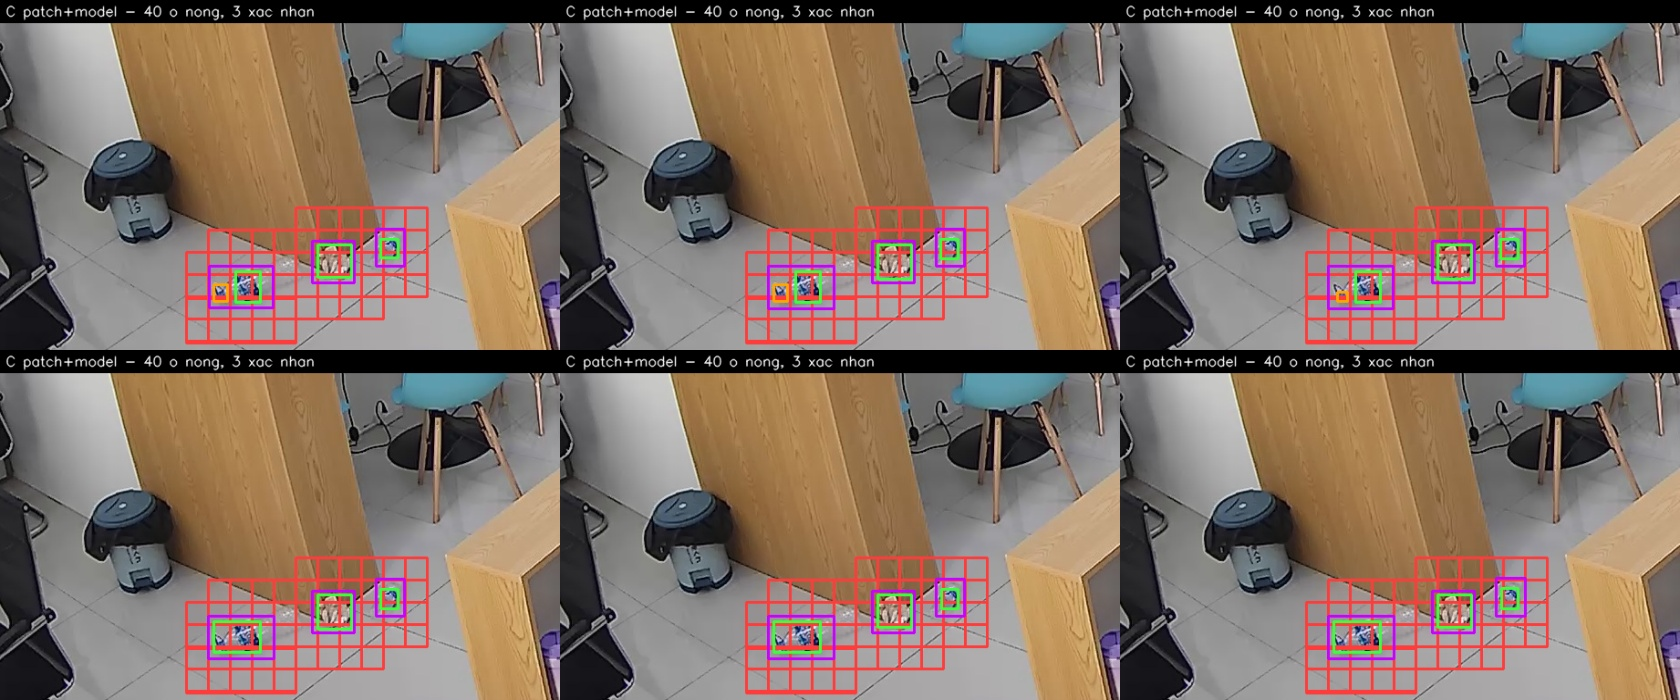
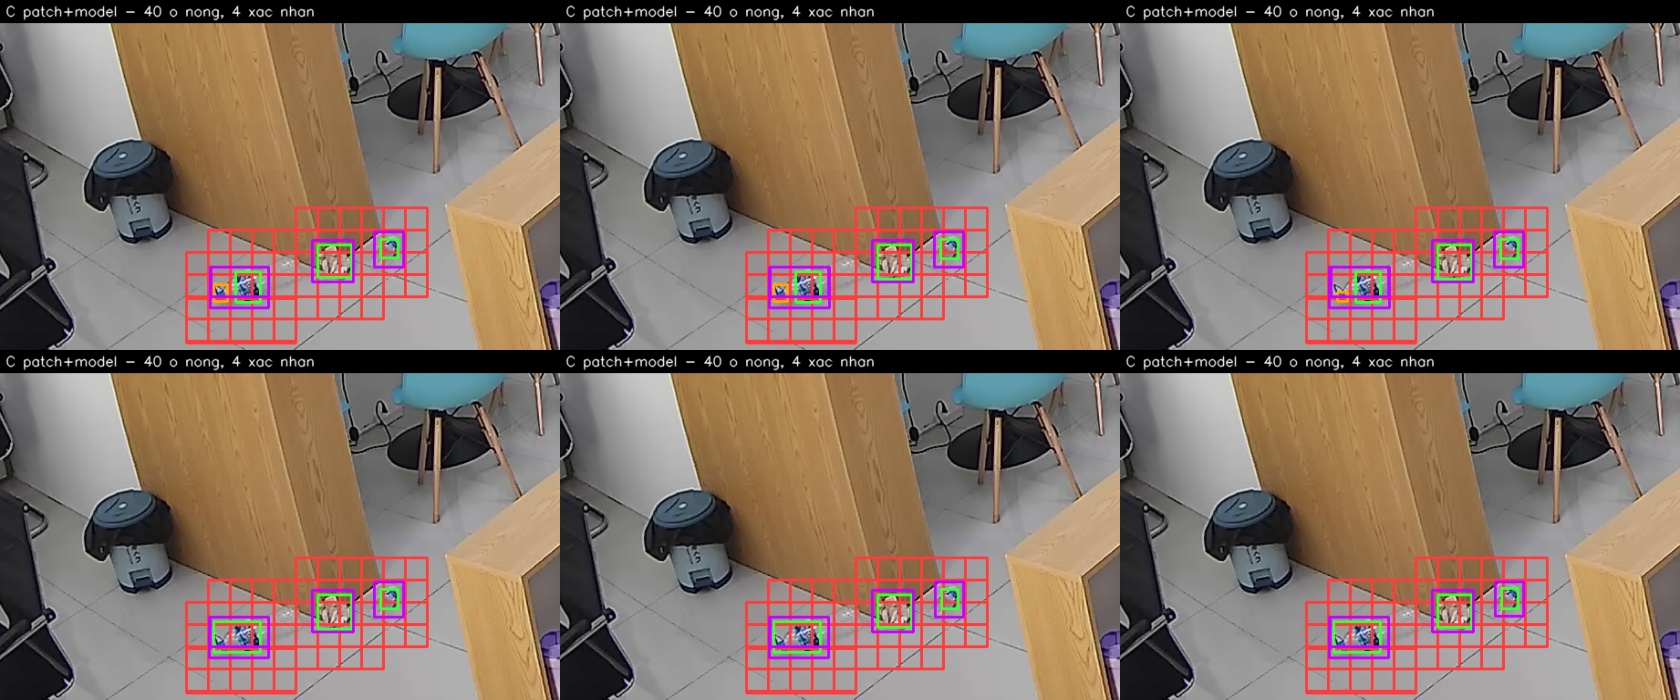
Hieu chinh tang xac nhan: bao nham tren chuoi sach 28% -> 0%
Nguong toi uu do tren model DUNG RIENG khong chuyen duoc sang tang xac nhan:
hai ben dua vao model hai loai anh khac nhau. O conf 0,30 model dung rieng van
86% ma ghep sap ve 0%.

max_side_px 256 -> 320. 320 x upscale 2 = 640px, DUNG bang anh model duoc train.
Ban dau dat 256 voi ly luan "vung cang to thi vat cang nho so voi anh" — nghe
hop ly nhung pha mat su khop thang ma ca vong lam du lieu sinh ra de dat duoc.

Ket qua: eco giu nguyen 86%, chuoi CCTV sach tu 28% xuong 0% so luot bao nham.
Hai vach phai tranh: vung 192 -> recall 48%, conf 0,30 -> 38%.

Them tools/bench_sweep.py: so model o diem lam viec tuong duong thay vi o cung
mot nguong conf. Quet cho thay 4 model cong khai khong cai nao xuong duoc muc
4 hop thua o BAT KY nguong nao ma van giu recall.

diff --git a/tools/bench_sweep.py b/tools/bench_sweep.py
@@ -1,0 +1,115 @@
+"""So model o DIEM LAM VIEC TUONG DUONG, khong so o cung mot nguong conf.
+
+    python3 tools/bench_sweep.py --models a.pt repo/id ...
+
+Vi sao can: `bench_models.py` so tat ca o conf 0,10 va xep sharktide dau bang
+voi 100% recall — nhung no rai 118 hop len 6 khung chua 20 vat. Cac model hieu
+chinh khac nhau, nen mot nguong chung khong noi len dieu gi. Model A o conf 0,1
+co the tuong duong model B o conf 0,4.
+
+Cach so dung: quet conf cho TUNG model, roi doc hai lat cat
+  * cung do NHIEU  — o muc ~4 hop thua (bang model hien tai), recall bao nhieu
+  * cung RECALL    — o muc 90% recall, phai chiu bao nhieu hop thua
+
+Do la duong cong danh doi thuc su cua tung model.
+"""
+
+from __future__ import annotations
+
+import argparse
+import os
+import sys
+
+import cv2
+import numpy as np
+
+HERE = os.path.dirname(os.path.dirname(os.path.abspath(__file__)))
+sys.path.insert(0, HERE)
+sys.path.insert(0, os.path.join(HERE, "tools"))
+
+from bench_models import detect, load                      # noqa: E402
+from run_test_cases import ABODA, SITE, gt_boxes, hits     # noqa: E402
+
+CONFS = [0.02, 0.05, 0.10, 0.20, 0.30, 0.40, 0.50, 0.60, 0.70]
+
+
+def main() -> int:
+    ap = argparse.ArgumentParser(description=__doc__,
+                                 formatter_class=argparse.RawDescriptionHelpFormatter)
+    ap.add_argument("--models", nargs="+", required=True)
+    ap.add_argument("--frames", type=int, default=6)
+    ap.add_argument("--clean", type=int, default=12)
+    args = ap.parse_args()
+
+    ref = np.load(f"{SITE}/_ref.npy")
+    eco = []
+    for fn in sorted(f for f in os.listdir(SITE) if f.startswith("frame_")):
+        im = cv2.imread(os.path.join(SITE, fn))
+        if im is not None and im.shape == ref.shape:
+            g = gt_boxes(im, ref)
+            if len(g) >= 3:
+                eco.append((im, g))
+    eco = eco[11:11 + args.frames]
+    n_gt = sum(len(g) for _, g in eco)
+
+    clean = []
+    for vid in ("video1", "video3", "video6"):
+        cap = cv2.VideoCapture(f"{ABODA}/{vid}.avi")
+        k = 0
+        while len(clean) < args.clean * 3:
+            ok, f = cap.read()
+            if not ok:
+                break
+            if k % 40 == 0:
+                clean.append(f)
+            k += 1
+        cap.release()
+    clean = clean[:args.clean]
+    print(f"{len(eco)} khung eco / {n_gt} vat · {len(clean)} khung sach\n")
+
+    summary = []
+    for spec in args.models:
+        try:
+            m, name = load(spec)
+        except Exception as e:
+            print(f"{spec}: NAP LOI {str(e)[:50]}\n")
+            continue
+        short = name.split(":")[0].split("/")[-1][:28]
+        print(f"=== {short} ({len(m.names)} lop) ===")
+        print(f"  {'conf':>5s} {'bat duoc':>12s} {'hop thua':>9s} {'sach':>7s}")
+        curve = []
+        for c in CONFS:
+            hit = nbox = 0
+            for im, gts in eco:
+                b = detect(m, im, c)
+                hit += sum(hits(b, g) for g in gts)
+                nbox += len(b)
+            nfp = sum(len(detect(m, f, c)) for f in clean) / max(1, len(clean))
+            extra = max(0, nbox - n_gt)
+            curve.append((c, hit, extra, nfp))
+            print(f"  {c:5.2f} {hit:4d}/{n_gt:<3d} {100*hit/n_gt:4.0f}% "
+                  f"{extra:8d} {nfp:7.1f}")
+
+        # lat cat 1: o muc <=4 hop thua (bang model hien tai), recall cao nhat
+        a = max((x for x in curve if x[2] <= 4), key=lambda x: x[1], default=None)
+        # lat cat 2: o muc >=90% recall, it hop thua nhat
+        b = min((x for x in curve if x[1] >= 0.9 * n_gt), key=lambda x: x[2],
+                default=None)
+        summary.append((short, a, b))
+        print()
+
+    print("=" * 72)
+    print("DIEM LAM VIEC TUONG DUONG")
+    print(f"  {'model':30s} {'<=4 hop thua':>22s} {'>=90% recall':>18s}")
+    print("  " + "-" * 70)
+    for short, a, b in summary:
+        sa = f"conf {a[0]:.2f} -> {100*a[1]/n_gt:.0f}%" if a else "khong dat duoc"
+        sb = f"conf {b[0]:.2f} -> {b[2]} hop thua" if b else "khong dat duoc"
+        print(f"  {short:30s} {sa:>22s} {sb:>18s}")
+    print("\n  Cot 1: chiu cung do nhieu nhu model hien tai thi bat duoc bao nhieu.")
+    print("  Cot 2: muon dat 90% recall thi phai chiu bao nhieu hop thua.")
+    return 0
+
+
+if __name__ == "__main__":
+    raise SystemExit(main())

diff --git a/README.md b/README.md
@@ -23,7 +23,8 @@ khung → │ cổng đổi nền     │→ │ gộp ô     │→ │ detecto
 nhưng không biết *cái gì*; detector biết cái gì nhưng không biết cảnh này bình
 thường ra sao. Hai bên sai ở chỗ khác nhau — cổng đổi bắn vì người đi qua và
 ánh sáng đổi, detector bắn vì kết cấu bề mặt — nên giao của chúng nhỏ hơn hẳn
-từng bên. Đo được: **97% → 25%** số lượt báo nhầm, recall giữ nguyên.
+từng bên. Đo được: báo nhầm trên chuỗi CCTV sạch **42% (model) và 56% (patch)
+tụt về 0% khi ghép**, recall giữ nguyên 86%.
 
 ### Tầng 1 · cổng đổi nền — `core/reference.py`
 
@@ -255,9 +256,9 @@ Nhãn lấy bằng trừ nền rồi gộp ở mức vật.
 
 | cấu hình | bắt được | hộp thừa |
 |---|---|---|
-| model đứng riêng | 18/21 · 86% | 77 |
+| model đứng riêng | 18/21 · 86% | 59 |
 | patch đứng riêng | 18/21 · 86% | 471 |
-| **patch + model** | **18/21 · 86%** | **0** |
+| **patch + model** | **18/21 · 86%** | **3** |
 
 **Chuỗi CCTV sạch** — 3 video ABODA có người đi và ánh sáng đổi, không có rác.
 Phải chạy theo *chuỗi*: dựng nền từ chính khung sắp quét rồi quét lại khung đó
@@ -265,12 +266,12 @@ thì "0 báo nhầm" chỉ nói rằng không đổi thì không báo.
 
 | cấu hình | lượt có báo nhầm |
 |---|---|
-| model đứng riêng | 35/36 · 97% |
+| model đứng riêng | 15/36 · 42% |
 | patch đứng riêng | 20/36 · 56% |
-| **patch + model** | **10/36 · 28%** |
+| **patch + model** | **0/36 · 0%** |
 
-Ghép **không mất recall nào** (cả ba đều 86%) mà đưa hộp thừa về **0** và cắt
-báo nhầm từ 97%/56% xuống 28%. Ảnh trong `test_cases/`: `01_model_only_eco.jpg`,
+Ghép **không mất recall nào** (cả ba đều 86%) mà đưa hộp thừa từ 59 xuống **3** và cắt
+báo nhầm từ 42%/56% xuống **0%**. Ảnh trong `test_cases/`: `01_model_only_eco.jpg`,
 `02_patch_only_eco.jpg`, `03_patch_plus_model_eco.jpg`, `04_clean_rejected.jpg`.
 
 `test_cases/model_only/` là detector chạy **một mình** trên bốn miền khác nhau,
@@ -464,6 +465,7 @@ tools/standing_test.py   người đứng yên có bị báo không
 tools/measure_px.py      đo cỡ vật theo px để chọn cell_px
 tools/calibrate.py       dò ngưỡng litter_thr cho mode classifier
 tools/bench_models.py    so nhiều model rác bằng cùng một thước đo
+tools/bench_sweep.py     quét ngưỡng, so ở điểm làm việc tương đương
 tools/keepalive.sh       chạy shadow liên tục, tự bật lại nếu chết
 tools/selfcheck.sh       kiểm gói trước khi bàn giao (cú pháp, đường dẫn, test)
 
@@ -475,3 +477,35 @@ config/day_cfg.yaml       cấu hình đang chạy thật
 test_cases/               kết quả bộ test + ảnh
 training/                 dựng bộ dữ liệu + train lại + soát dữ liệu
 ```
+
+### Hiệu chỉnh tầng xác nhận — `tools/bench_sweep.py`
+
+Ngưỡng tối ưu đo trên model **đứng riêng không chuyển được** sang tầng xác nhận,
+vì hai bên đưa vào model hai loại ảnh khác nhau: đứng riêng thì cắt ô 320px
+phóng 2× (640px), còn tầng xác nhận cắt vùng quanh cụm ô nóng. Đo được:
+
+| verify.conf (vùng 256) | model đứng riêng | **ghép** |
+|---|---|---|
+| 0,10 | 86% | **86%** |
+| 0,20 | 86% | **29%** |
+| 0,30 | 86% | **0%** |
+
+Ở conf 0,30 model đứng riêng vẫn 86% mà ghép sập về 0. **Phải hiệu chỉnh tầng
+xác nhận bằng chính bộ test của pipeline, không suy từ số của model.**
+
+Quét cả hai tham số cùng lúc:
+
+| vùng | conf | eco | hộp thừa | chuỗi sạch |
+|---|---|---|---|---|
+| 256 | 0,10 | 86% | 0 | 28% |
+| 320 | 0,10 | 86% | 3 | 6% |
+| **320** | **0,20** | **86%** | **3** | **0%** |
+| 192 | 0,10 | **48%** ✗ | 0 | 25% |
+| 320 | 0,30 | **38%** ✗ | 0 | 0% |
+
+`max_side_px: 320` × `upscale 2` = **640px, đúng bằng ảnh model được train**.
+Bản đầu đặt 256 với lý luận "vùng càng to thì vật càng nhỏ so với ảnh" — nghe
+hợp lý nhưng phá mất sự khớp thang mà cả vòng làm dữ liệu sinh ra để đạt được.
+
+Hai vách phải tránh: **vùng 192** crop quá chặt, mất bối cảnh, recall sập 48%;
+**conf 0,30** sập 38%. Điểm 320/0,20 có biên cả hai phía.

diff --git a/test_cases/results.md b/test_cases/results.md
@@ -2,7 +2,7 @@
 
 Sinh bởi `python3 tools/run_test_cases.py` — chạy lại là ra đúng số này.
 
-Model: `models/trash_yolo11n.pt` · conf 0.1 · ô 320px phóng 2.0×
+Model: `models/trash_yolo11n.pt` · conf 0.2 · ô 320px phóng 2.0×
 Mặt nạ nhiễu TẮT trong mọi ca (cần ~5 giờ mới chín, không đo được ở đây).
 
 ## Khung eco — rác thật do người vứt
@@ -11,9 +11,9 @@ Mặt nạ nhiễu TẮT trong mọi ca (cần ~5 giờ mới chín, không đo 
 
 | cấu hình | bắt được | hộp thừa |
 |---|---|---|
-| model đứng riêng | 18/21 · 86% | 77 |
+| model đứng riêng | 18/21 · 86% | 59 |
 | patch đứng riêng | 18/21 · 86% | 471 |
-| **patch + model** | 18/21 · 86% | 0 |
+| **patch + model** | 18/21 · 86% | 3 |
 
 ## Chuỗi CCTV sạch — không có rác
 
@@ -21,6 +21,6 @@ Mặt nạ nhiễu TẮT trong mọi ca (cần ~5 giờ mới chín, không đo 
 
 | cấu hình | lượt có báo nhầm |
 |---|---|
-| model đứng riêng | 35/36 · 97% |
+| model đứng riêng | 15/36 · 42% |
 | patch đứng riêng | 20/36 · 56% |
-| **patch + model** | **10/36 · 28%** |
+| **patch + model** | **0/36 · 0%** |
